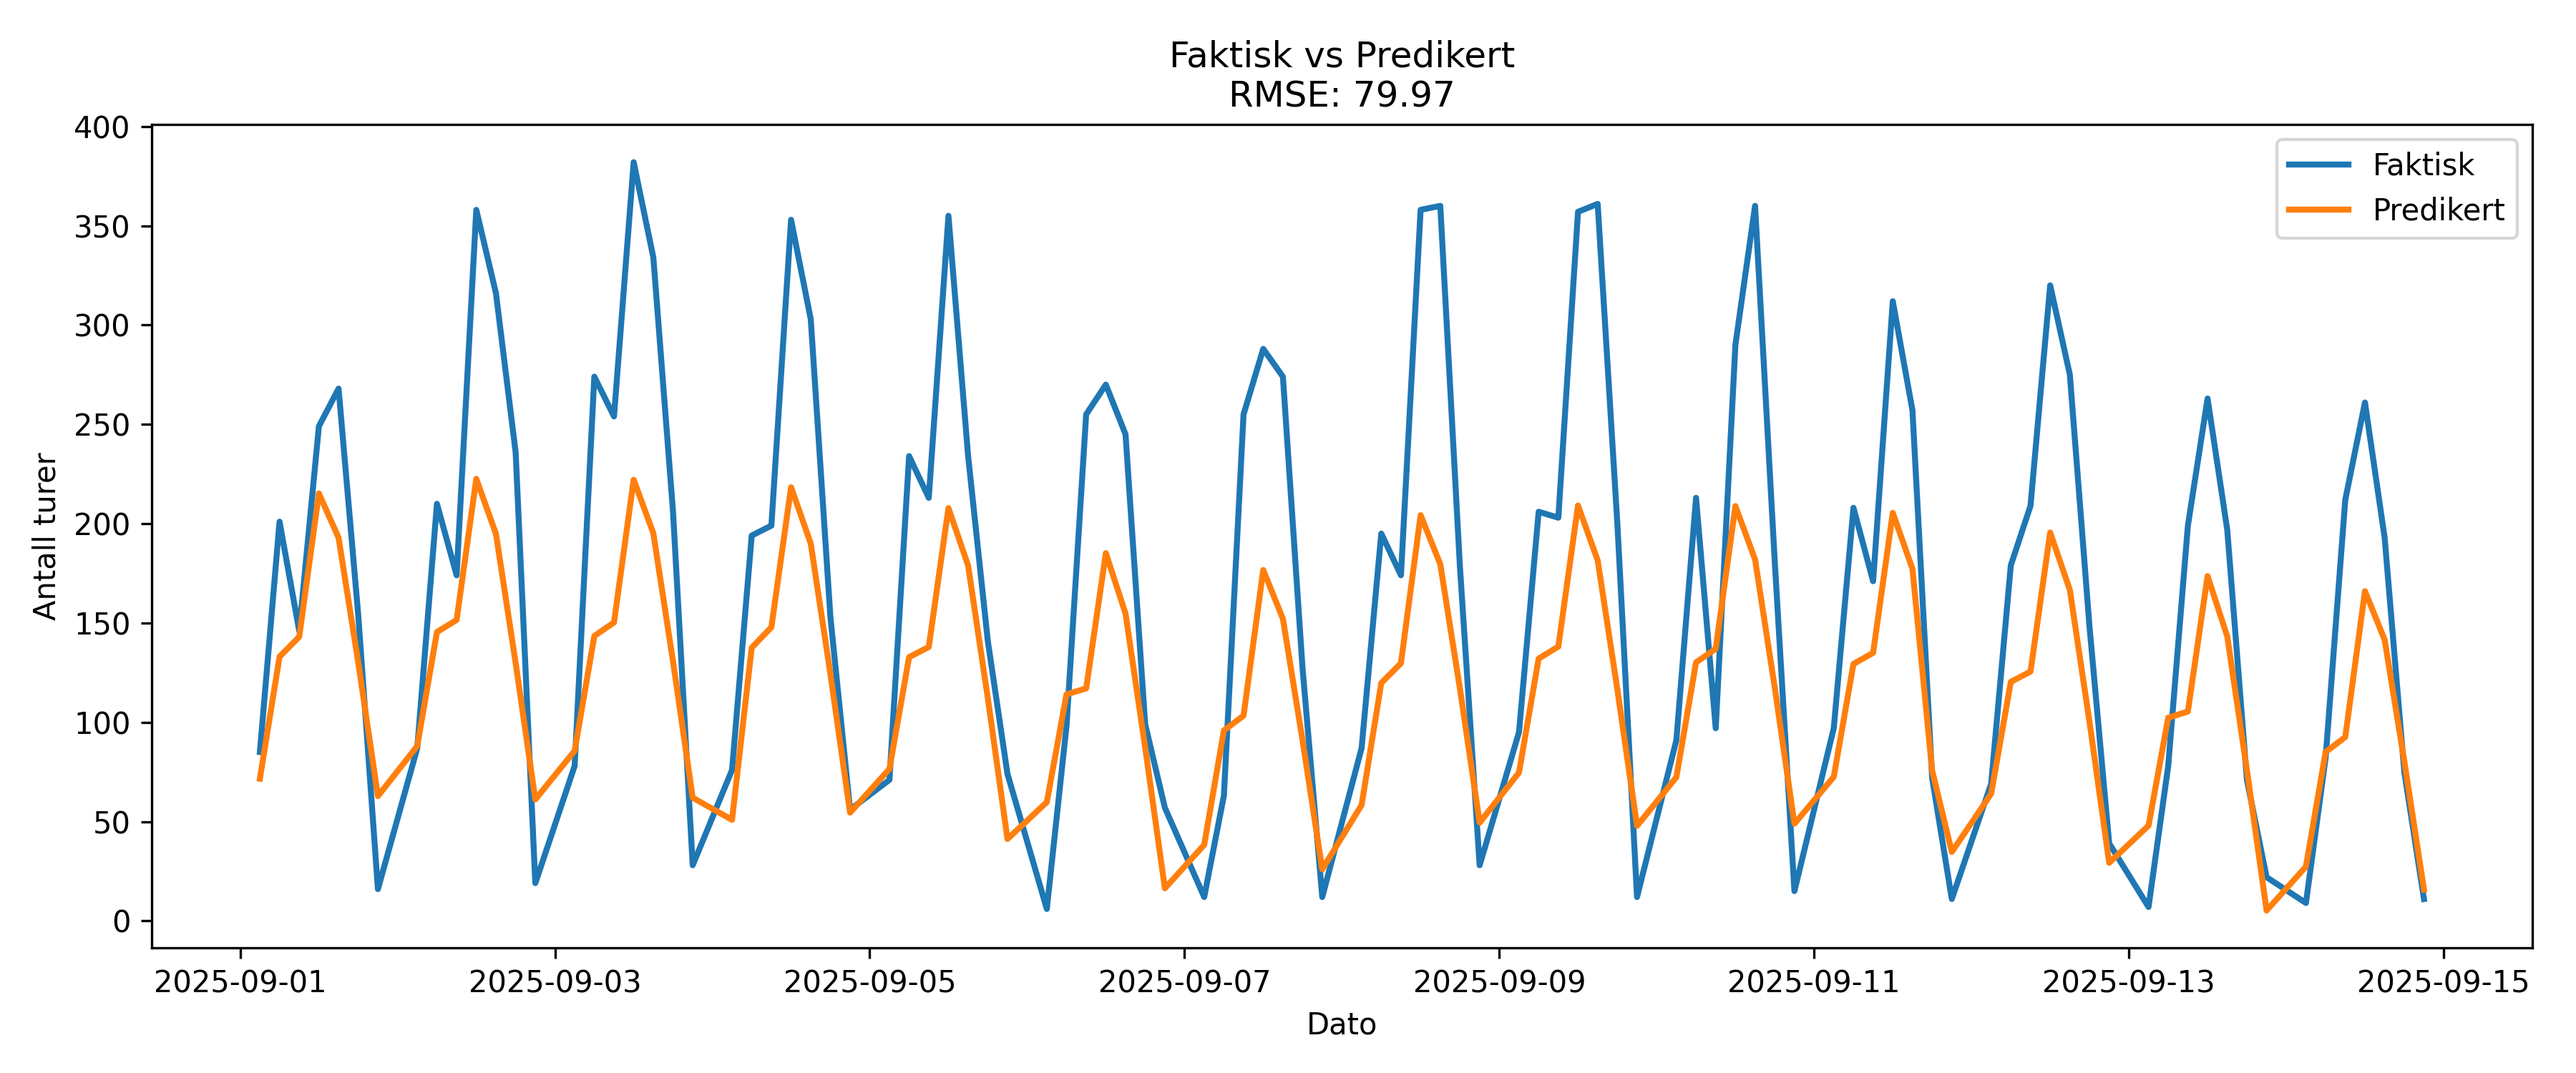
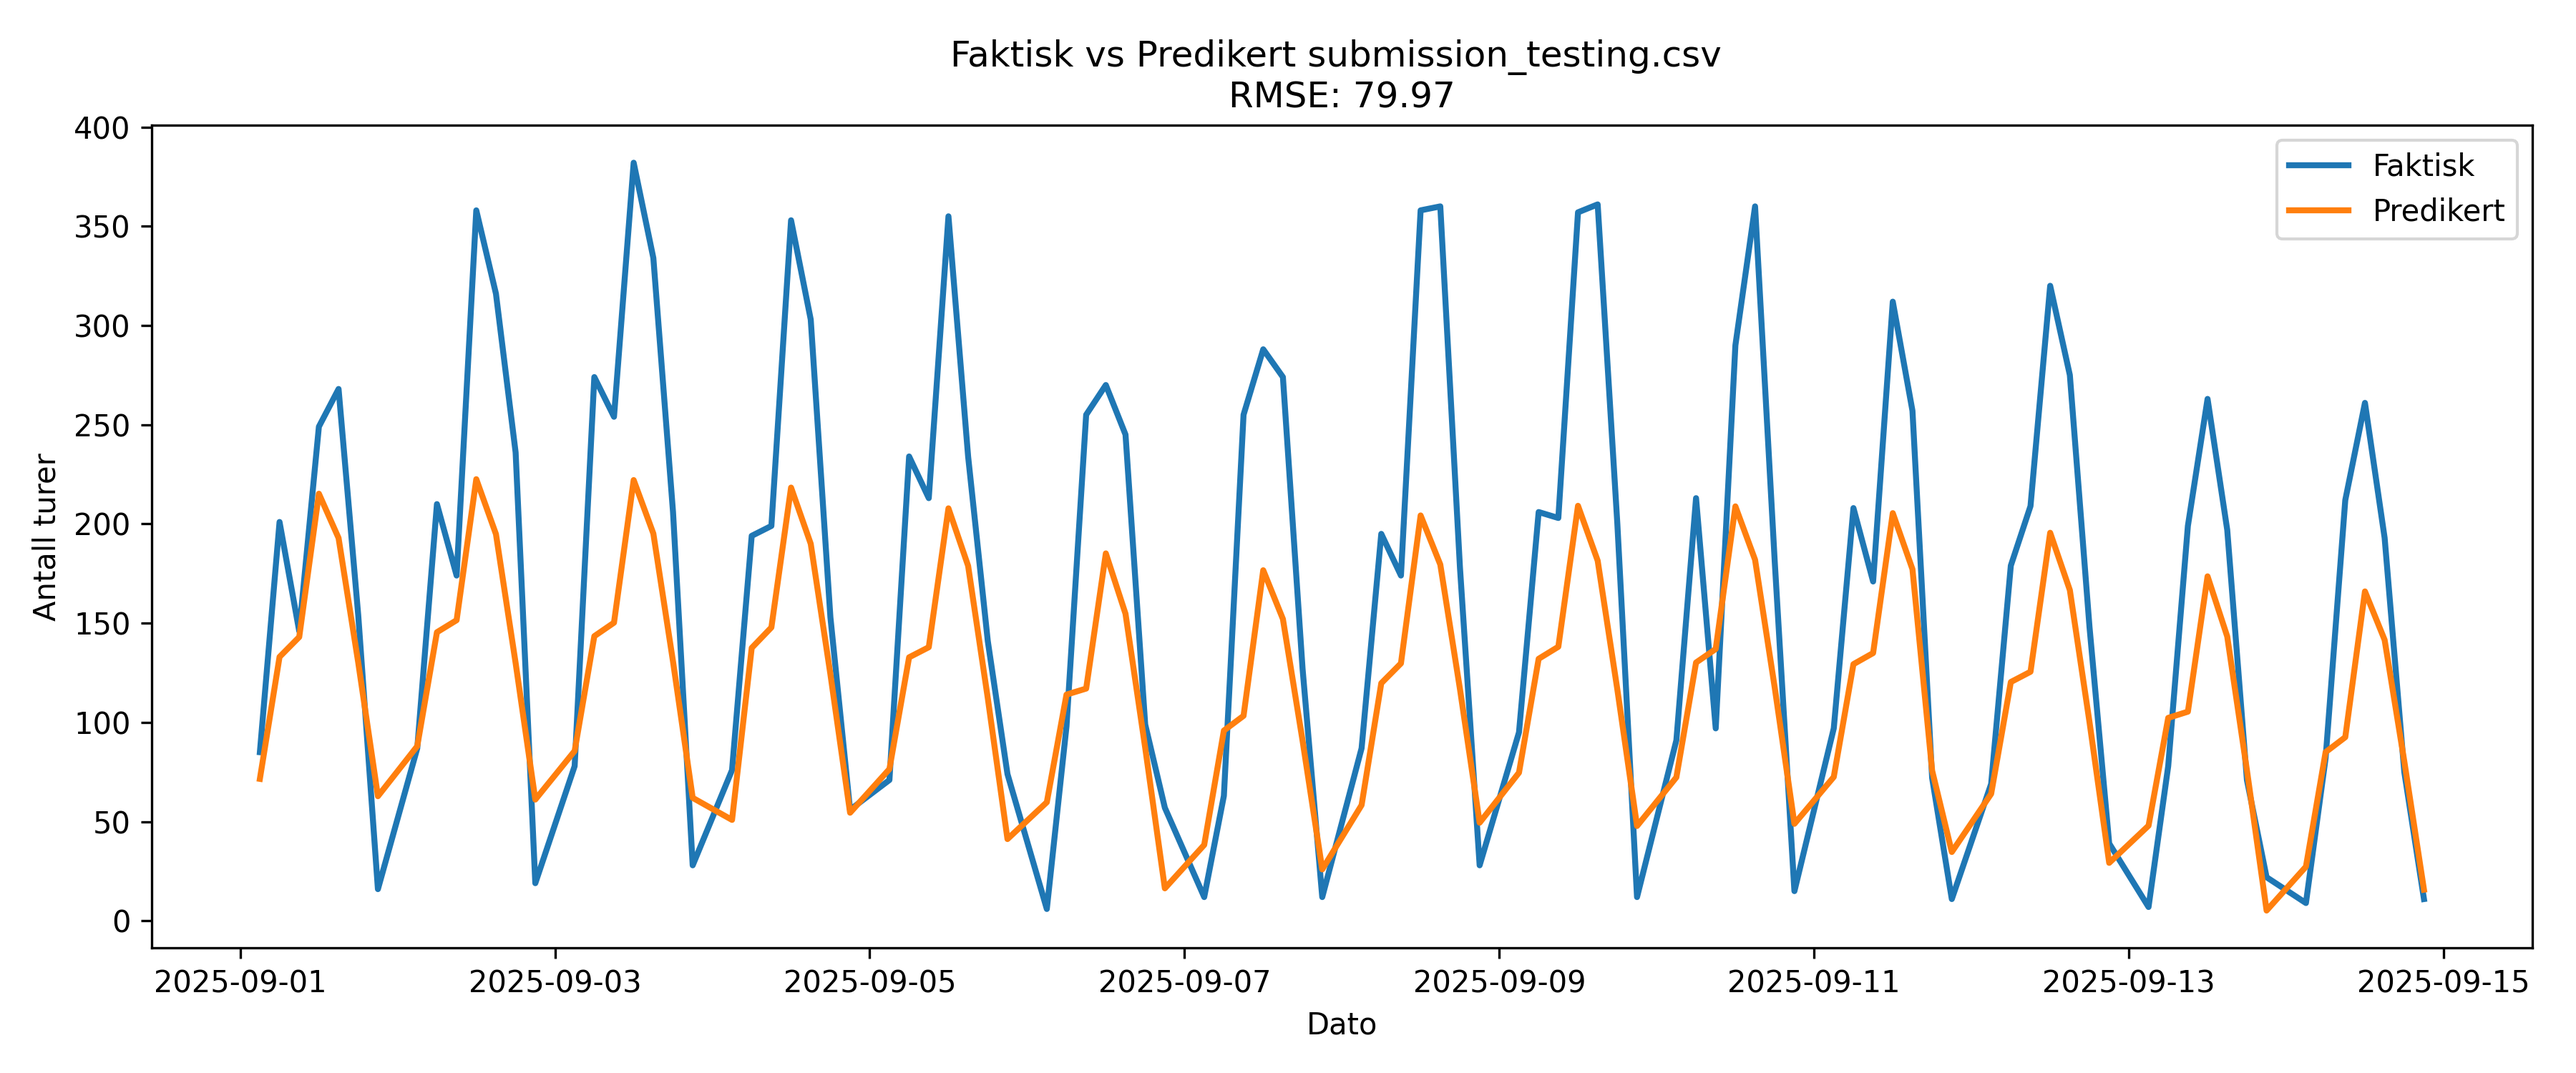
work

Changed region(s): [[0.3733, 0.0307, 0.6844, 0.1227], [0.9333, 0.184, 0.9644, 0.2147]]

diff --git a/konkurranse/scoring.py b/konkurranse/scoring.py
@@ -38,7 +38,7 @@ plt.figure(figsize=(12, 5))
 plt.plot(df["ds"], df["y"], label="Faktisk", linewidth=2)
 plt.plot(df["ds"], df["yhat"], label="Predikert", linewidth=2)
 
-plt.title(f"Faktisk vs Predikert\nRMSE: {rmse:.2f}")
+plt.title(f"Faktisk vs Predikert av {SUBMISSION_FILE} \nRMSE: {rmse:.2f}")
 plt.xlabel("Dato")
 plt.ylabel("Antall turer")
 plt.legend()
